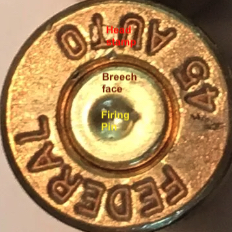
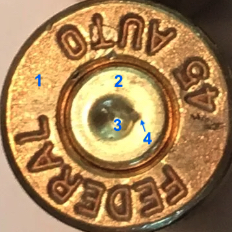
updated image resources for readme

diff --git a/README.md b/README.md
@@ -9,9 +9,15 @@ In this project, the following areas of interest are masked -
 - **Firing pin impression**
 - **Firing pin drag**
 
-For this algorithm to work as required it is important to use properly lit images focused on the firing-pin and the breech-face regions, including the grooves around the breech-face but *excluding the head-stamp region* of the case. Below is an image to illustrate the anatomy of a fired cartridge case -
+For this algorithm to work as required it is important to use properly lit images focused on the firing pin and the breech face regions, including the grooves around the breech face but *excluding the head stamp region* of the case. Below is an image to illustrate the anatomy of a fired cartridge case -
 
-![Fired Bullet Casing Image](https://github.com/SonalKiran/FirearmForensics-MaskingCartridgeCaseImages/blob/master/resources/bullet_casing.jpg)
+1. Head stamp region
+2. Breech face impression
+3. Firing pin impression
+4. Firing pin drag
+
+**Fired Cartridge Case Image**
+![alt text](https://github.com/SonalKiran/FirearmForensics-MaskingCartridgeCaseImages/blob/master/resources/bullet_casing.jpg)
 
 
 There are two python scripts under the 'Services' folder -
@@ -27,8 +33,8 @@ There are two python scripts under the 'Services' folder -
 **Python Version**: 3.8.10
 
 **Python Libraries** (please refer requirements.txt):
-- numpy==1.26.3
-- opencv-python==4.9.0.80
+- numpy: 1.26.3
+- opencv-python: 4.9.0.80
 
 
 ### Dataset Description
@@ -38,11 +44,11 @@ This "Data" folder contains 5 images from 2 bullet cases.
 
 ### Results
 ---
+**Original Casing Image**
+![alt text](https://github.com/SonalKiran/FirearmForensics-MaskingCartridgeCaseImages/blob/master/resources/o_1.jpg)
 
-![Original Casing Image](https://github.com/SonalKiran/FirearmForensics-MaskingCartridgeCaseImages/blob/master/data/o_1.jpg)
-
-
-![Masked Casing Image](https://github.com/SonalKiran/FirearmForensics-MaskingCartridgeCaseImages/blob/master/data/masked_images/masked_o_1.jpg)
+**Masked Casing Image**
+![alt text](https://github.com/SonalKiran/FirearmForensics-MaskingCartridgeCaseImages/blob/master/resources/masked_o_1.jpg)
 
 
 ### Next Steps
